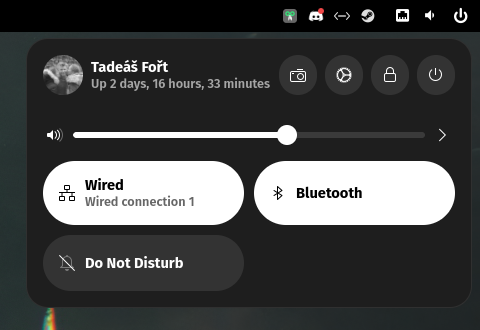
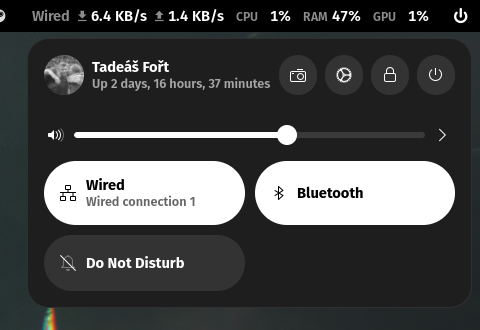
Bar: live network/CPU/RAM/GPU stats and a single power button for quick settings

diff --git a/config/niri/waybar/style.css b/config/niri/waybar/style.css
@@ -27,12 +27,14 @@ tooltip label { color: #ffffff; }
 #workspaces button:hover { background: #a0a0a0; }
 #workspaces button.active { min-width: 32px; background: #ffffff; }
 
-#custom-clock, #tray, #network, #pulseaudio, #custom-power {
+#custom-clock, #tray, #custom-stats, #custom-power {
     padding: 0 9px;
     margin: 4px 1px;
     border-radius: 99px;
     color: #ffffff;
 }
-#network, #pulseaudio, #custom-power { font-size: 12pt; }
+#custom-power { font-size: 12pt; }
+/* tabular digits + figure-space padding in stats.py keep the numbers from shifting the bar */
+#custom-stats { font-feature-settings: "tnum"; padding: 0 14px; }
 #custom-power { margin-right: 8px; }
-#custom-clock:hover, #network:hover, #pulseaudio:hover, #custom-power:hover { background: #2a2a2a; }
+#custom-clock:hover, #custom-stats:hover, #custom-power:hover { background: #2a2a2a; }

diff --git a/config/niri/waybar/stats.py b/config/niri/waybar/stats.py
@@ -1,0 +1,139 @@
+#!/usr/bin/python3
+"""waybar custom module: network name + down/up speed, CPU, RAM and GPU usage.
+Long-running; prints one JSON line every INTERVAL seconds (waybar "return-type": "json")."""
+import glob
+import json
+import shutil
+import subprocess
+import sys
+import time
+
+INTERVAL = 2
+DIM = "<span alpha='55%'>{}</span>"
+LABEL = "<span alpha='55%' size='small'>{}</span>"
+FIG = " "  # figure space: as wide as a digit, so numbers don't shift the bar
+
+
+def pad(text, width):
+    return FIG * (width - len(text)) + text
+
+
+def cpu_times():
+    with open("/proc/stat") as f:
+        vals = list(map(int, f.readline().split()[1:]))
+    idle = vals[3] + vals[4]  # idle + iowait
+    return sum(vals), idle
+
+
+def ram_percent():
+    info = {}
+    with open("/proc/meminfo") as f:
+        for line in f:
+            key, val = line.split(":")
+            info[key] = int(val.split()[0])
+    return round(100 * (info["MemTotal"] - info["MemAvailable"]) / info["MemTotal"]), info
+
+
+def gpu_percent():
+    for path in glob.glob("/sys/class/drm/card*/device/gpu_busy_percent"):  # AMD
+        try:
+            with open(path) as f:
+                return int(f.read())
+        except (OSError, ValueError):
+            pass
+    if shutil.which("nvidia-smi"):
+        out = subprocess.run(["nvidia-smi", "--query-gpu=utilization.gpu", "--format=csv,noheader,nounits"],
+                             capture_output=True, text=True).stdout.split()
+        return int(out[0]) if out else None
+    return None
+
+
+def default_iface():
+    with open("/proc/net/route") as f:
+        for line in f.readlines()[1:]:
+            fields = line.split()
+            if fields[1] == "00000000":
+                return fields[0]
+    return None
+
+
+def iface_bytes(iface):
+    with open("/proc/net/dev") as f:
+        for line in f:
+            if line.strip().startswith(iface + ":"):
+                vals = line.split(":", 1)[1].split()
+                return int(vals[0]), int(vals[8])  # rx, tx
+    return 0, 0
+
+
+def connection_name(iface):
+    out = subprocess.run(["nmcli", "-t", "-f", "NAME,TYPE,DEVICE", "connection", "show", "--active"],
+                         capture_output=True, text=True).stdout
+    for line in out.splitlines():
+        name, kind, dev = line.rsplit(":", 2)
+        if dev == iface:
+            if "ethernet" in kind:
+                return "Wired"
+            if "wireless" in kind:
+                return name if len(name) <= 14 else name[:13] + "…"
+            return name[:14]
+    return iface
+
+
+def speed(bps):
+    if bps >= 1e6:
+        num, unit = bps / 1e6, "MB/s"
+    else:
+        num, unit = bps / 1e3, "KB/s"
+    text = f"{num:.1f}" if num < 10 else f"{num:.0f}"
+    return pad(text, 3) + " " + unit
+
+
+def main():
+    total, idle = cpu_times()
+    iface = default_iface()
+    rx, tx = iface_bytes(iface) if iface else (0, 0)
+    name, name_at = "", 0
+    last = time.monotonic()
+    while True:
+        time.sleep(INTERVAL)
+        now = time.monotonic()
+        dt, last = now - last, now
+
+        t2, i2 = cpu_times()
+        cpu = round(100 * (1 - (i2 - idle) / max(1, t2 - total)))
+        total, idle = t2, i2
+        ram, mem = ram_percent()
+        gpu = gpu_percent()
+
+        cur = default_iface()
+        if cur != iface:
+            iface, name_at = cur, 0
+            rx, tx = iface_bytes(iface) if iface else (0, 0)
+        r2, t2b = iface_bytes(iface) if iface else (0, 0)
+        down, up = max(0, r2 - rx) / dt, max(0, t2b - tx) / dt
+        rx, tx = r2, t2b
+        if iface and now - name_at > 30:
+            name, name_at = connection_name(iface), now
+
+        parts = []
+        if iface:
+            parts.append(f"{DIM.format(name)}  {DIM.format('')} {speed(down)}"
+                         f"  {DIM.format('')} {speed(up)}")
+        else:
+            parts.append(DIM.format(" Offline"))
+        parts.append(f"{LABEL.format('CPU')} {pad(str(cpu), 2)}%")
+        parts.append(f"{LABEL.format('RAM')} {pad(str(ram), 2)}%")
+        if gpu is not None:
+            parts.append(f"{LABEL.format('GPU')} {pad(str(gpu), 2)}%")
+        used = (mem["MemTotal"] - mem["MemAvailable"]) / 1048576
+        tooltip = (f"{iface or 'offline'}\nRAM {used:.1f} / {mem['MemTotal'] / 1048576:.1f} GiB"
+                   "\nClick for system monitor")
+        print(json.dumps({"text": "   ".join(parts), "tooltip": tooltip}, ensure_ascii=False), flush=True)
+
+
+if __name__ == "__main__":
+    try:
+        main()
+    except (BrokenPipeError, KeyboardInterrupt):
+        sys.exit(0)

diff --git a/README.md b/README.md
@@ -10,11 +10,13 @@ between the two at the login screen.
 
 ![Desktop](screenshots/desktop.png)
 
+![Bar stats](screenshots/bar-stats.png)
+
 | Alt+Tab: one icon per app | Down: live previews of that app's windows |
 |---|---|
 | ![App switcher](screenshots/switcher.png) | ![Window previews](screenshots/switcher-previews.png) |
 
-| Quick settings (click the status icons) | Notifications + weather (click the clock) |
+| Quick settings (click ⏻) | Notifications + weather (click the clock) |
 |---|---|
 | ![Quick settings](screenshots/quick-settings.png) | ![Notifications and weather](screenshots/notifications-weather.png) |
 
@@ -30,7 +32,7 @@ between the two at the login screen.
 |---|---|---|
 | niri | `config/niri/config.kdl` | the compositor: layout, borders, input, binds, autostart |
 | niri-switcher | `config/niri/switcher/niri-switcher.py` | GNOME-style Alt+Tab with window previews |
-| waybar | `config/niri/waybar/config.jsonc`, `style.css` | the GNOME-style top bar |
+| waybar | `config/niri/waybar/config.jsonc`, `style.css`, `stats.py` | the GNOME-style top bar with live network/CPU/RAM/GPU stats |
 | rofi | `config/niri/rofi/arcmenu.rasi` | app launcher that looks like ArcMenu's "Runner" layout |
 | niri-panels | `config/niri/panels/niri-panels.py` | quick settings menu and notifications/weather menu |
 | mako | `config/mako/config` | notification banners styled like GNOME's |
@@ -98,7 +100,7 @@ keeps the popup open without holding Alt, which is how the screenshots were take
 
 ### waybar
 
-Workspace dots on the left, the clock in the middle, tray, network, volume and a power button on the right.
+Workspace dots on the left, the clock in the middle, and on the right the tray, live stats and one power button.
 It's a separate config under `~/.config/niri/waybar/`, so an existing `~/.config/waybar` (for another
 desktop) isn't touched.
 
@@ -106,8 +108,13 @@ desktop) isn't touched.
   rejects `%-d`/`%-I` and renders nothing.
 - The workspace dots are buttons with their label hidden (`font-size: 0`). Otherwise the label's font height
   stretches the bar.
-- Clicking the clock opens the notifications/weather menu. Clicking the network, volume or power icon opens
-  quick settings (see below). Right-click the volume icon to mute, scroll on it to change the volume.
+- Clicking the clock opens the notifications/weather menu. The power button opens quick settings (see below),
+  which also has the volume slider.
+- The stats are one small script, `stats.py`, that waybar keeps running. Every 2 seconds it prints the
+  connection name (Wi-Fi network or "Wired"), download/upload speed of the default-route interface, CPU,
+  RAM and GPU usage (AMD via `gpu_busy_percent` in sysfs, NVIDIA via `nvidia-smi`, hidden if neither).
+  Labels are dimmed and numbers are padded with figure spaces and drawn with tabular digits, so the bar
+  doesn't jiggle as values change. Click it to open Resources (or GNOME System Monitor); hover for details.
 
 ### Quick settings and notifications menus (niri-panels)
 
